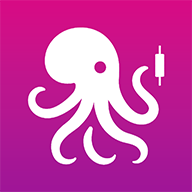
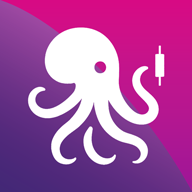
logo更换

diff --git a/components/order/OrderList.vue b/components/order/OrderList.vue
@@ -24,26 +24,33 @@
 						<button class="tag-default">逐仓</button>
 						<span class="text-xs text-grey">03/11 08:48:21</span>
 					</div>
-					<div class="flex justify-between items-center text-xs py-3 [&_b]:text-sm [&_span]:text-grey">
+					<div class="grid grid-cols-3 justify-between items-center text-xs py-3 [&_b]:text-sm [&_span]:text-grey">
 						<div class="flex flex-col">
-							<span>委托/已成(USDT)</span>
+							<span>委托</span>
 							<b>196</b>
 						</div>
-						<div class="flex flex-col">
-							<span>已成数量(USDT)</span>
+						<div class="flex flex-col items-center">
+							<span>已成数量</span>
 							<b>196</b>
 						</div>
 						<div class="flex flex-col justify-center items-end">
 							<span>委托价格</span>
 							<b>196</b>
 						</div>
-					</div>
-					<div class="flex items-center gap-2 justify-between">
-						<div class="flex items-center gap-2 justify-between">
-							<button class="bt-default">止盈 12455.9</button>
-							<button class="bt-default">止损 12000.3</button>
-                            <button class="bt-default">市价全平</button>
+
+						<div class="flex flex-col">
+							<span>止盈</span>
+							<b>196</b>
 						</div>
+						<div class="flex flex-col items-center">
+							<span>止损</span>
+							<b>196</b>
+						</div>
+					</div>
+					<div class="flex items-center gap-2 justify-between *:flex-1">
+						<button class="bt-default">止盈</button>
+						<button class="bt-default">止损</button>
+						<button class="bt-default">市价全平</button>
 						<button class="bt-default">撤单</button>
 					</div>
 				</li>
